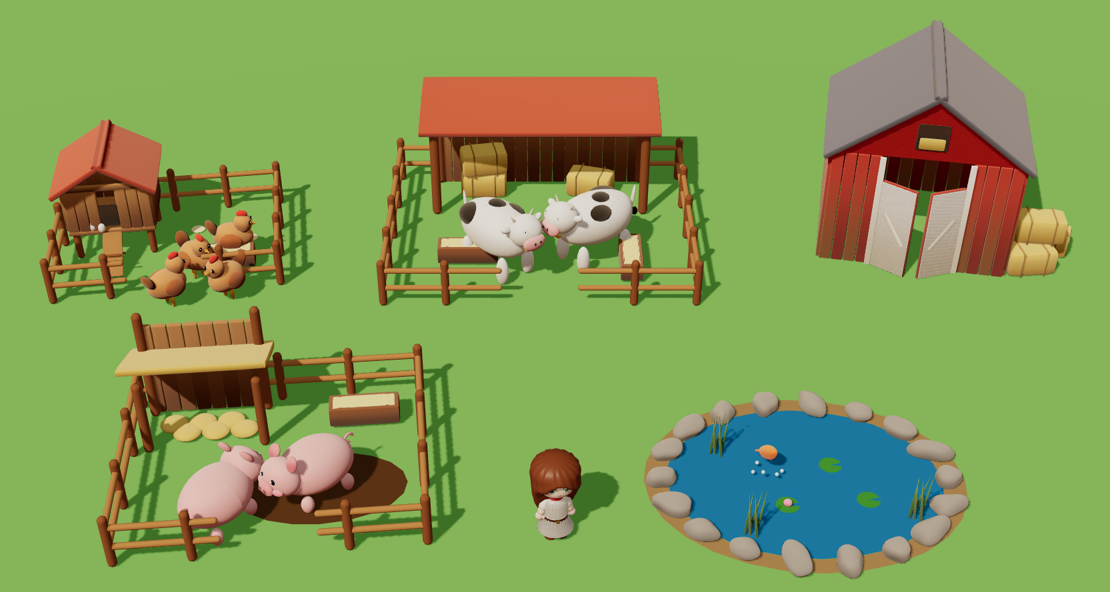
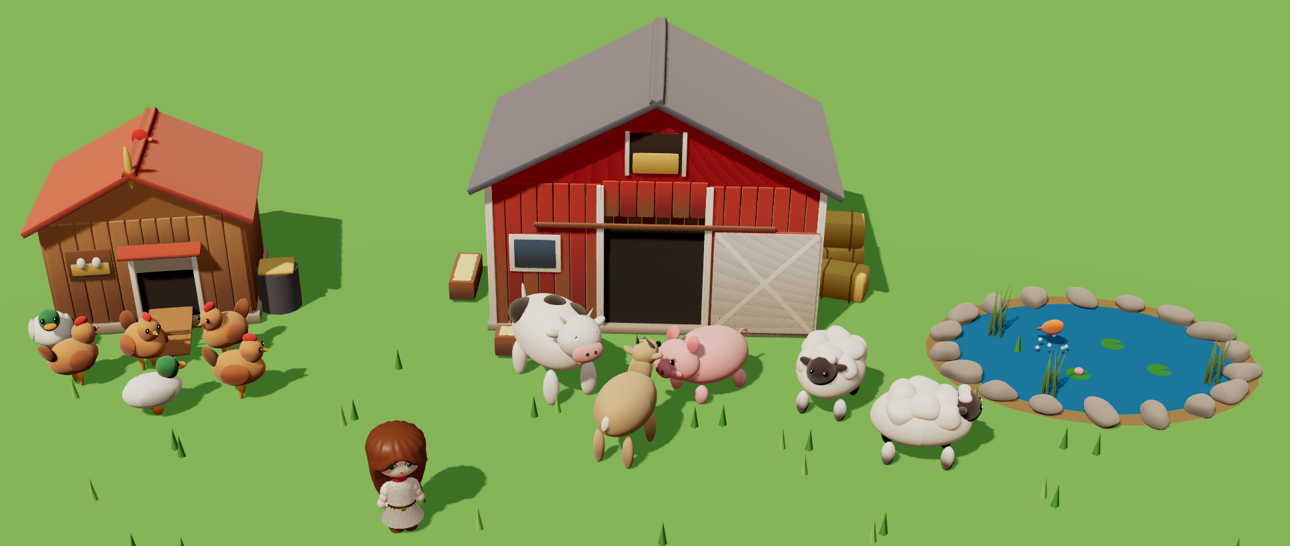
art(newgame): farm preview v2 — closed poultry house + livestock barn, sheep, goat
Claude-Session: https://claude.ai/code/session_01GPWeNez232vT9ersFNk7wt

diff --git a/newgame/src/clay.js b/newgame/src/clay.js
@@ -510,3 +510,34 @@ export const FARMB = {
     for (const [x, z] of [[.4, -.3], [-.3, .5], [.8, .4]]) { const p = new THREE.Mesh(new THREE.CircleGeometry(.16, 12, .3, 5.8), new THREE.MeshStandardMaterial({ color: '#4a9a3a' })); p.rotation.x = -Math.PI / 2; p.position.set(x, .03, z); g.add(p) } part(g, '#e85a8a', '#ffb0d0', [-.3, .07, .5], [.06, .05, .06], [0, 0, 0], { A: 0 });
     const f = new THREE.Group(); part(f, '#d86a2a', '#ffa050', [0, 0, 0], [.08, .1, .2]); cone(f, '#d86a2a', '#ffa050', [0, 0, -.2], [.07, .1, .02], [Math.PI / 2, 0, 0], .1); f.position.set(-.5, .35, -.2); f.rotation.set(-.6, .4, 0); g.add(f);
     for (let i = 0; i < 6; i++) { const d = new THREE.Mesh(new THREE.SphereGeometry(.03, 6, 5), new THREE.MeshStandardMaterial({ color: '#cfeeff' })); d.position.set(-.5 + Math.cos(i) * .2, .1 + (i % 3) * .05, -.1 + Math.sin(i) * .15); g.add(d) } } };
+/* v4.75b designer: two closed houses (🐔 birds · 🐄 four-legged) with a doorway the animals walk out of · 🐑 sheep · 🐐 goat */
+ANIMALS.sheep = g => { quad(g, { body: ['#e8e2d4', '#ffffff'], w: .38, h: .3, d: .5, lw: .07, lh: .14, leg: '#3a3030' });
+  for (let i = 0; i < 9; i++) part(g, '#e8e2d4', '#ffffff', [(i % 3 - 1) * .17, .62 + (i % 2) * .08, (Math.floor(i / 3) - 1) * .2], [.17, .15, .17], [0, i, 0], { A: .15 });
+  part(g, '#3a3030', '#5a4a48', [0, .66, .42], [.16, .17, .17]); for (let i = 0; i < 3; i++) part(g, '#e8e2d4', '#ffffff', [(i - 1) * .07, .8, .4], [.07, .06, .07], [0, 0, 0], { A: .1 });
+  for (const s of [-1, 1]) part(g, '#3a3030', '#5a4a48', [s * .17, .7, .38], [.09, .04, .05], [0, 0, s * .3], { A: 0 }); eyes(g, .7, .56, .07, .028) };
+ANIMALS.goat = g => { quad(g, { body: ['#a8885a', '#e0c090'], w: .3, h: .27, d: .48, lw: .06, lh: .2 }); part(g, '#a8885a', '#e0c090', [0, .78, .36], [.12, .2, .12], [.4, 0, 0]);
+  part(g, '#a8885a', '#e0c090', [0, .94, .5], [.13, .13, .18]); part(g, '#f0e6d4', '#ffffff', [0, .74, .6], [.05, .1, .04], [0, 0, 0], { A: 0 });
+  for (const s of [-1, 1]) { cone(g, '#6a5a4a', '#a8988a', [s * .07, 1.1, .44], [.03, .14, .03], [-.6, 0, s * .2], .9); part(g, '#a8885a', '#e0c090', [s * .15, .96, .44], [.08, .03, .05], [0, 0, s * .4], { A: 0 }) }
+  part(g, '#f0e6d4', '#ffffff', [0, .62, -.48], [.04, .08, .04], [.6, 0, 0], { A: 0 }); eyes(g, .98, .66, .08, .028) };
+FARMB.poultry = g => {   /* 🐔 a closed hen house: plank walls · red roof · a little hatch + ramp · a nest window · a feed bin */
+  const W = 2.6, Dd = 2, H = 1.5; rbox(g, '#8a7a6a', '#b8a898', [0, .08, 0], [W + .2, .16, Dd + .2], [0, 0, 0], .04);
+  for (const [x, z, w, ry] of [[0, -Dd / 2, W, 0], [-W / 2, 0, Dd, Math.PI / 2], [W / 2, 0, Dd, Math.PI / 2]]) plankWall(g, x, .16 + H / 2, z, w, H, ry);
+  plankWall(g, -.75, .16 + H / 2, Dd / 2, 1.1, H); plankWall(g, .95, .16 + H / 2, Dd / 2, .7, H); plankWall(g, .2, .16 + H * .82, Dd / 2, .8, H * .36);
+  rbox(g, '#1a120c', '#2a1e14', [.2, .5, Dd / 2 - .04], [.78, .7, .04], [0, 0, 0], .02); for (const s of [-1, 1]) rbox(g, ...WHITE, [.2 + s * .42, .62, Dd / 2 + .04], [.07, .95, .07], [0, 0, 0], .01);
+  rbox(g, ...WOODL, [.2, .17, Dd / 2 + .45], [.6, .04, .9], [.32, 0, 0], .02); for (let i = 0; i < 4; i++) rbox(g, ...WOOD, [.2, .08 + i * .07, Dd / 2 + .15 + i * .2], [.6, .02, .03], [.32, 0, 0], .005);
+  gable(g, W + .2, Dd + .2, .16 + H, .7); const tri = new THREE.Shape([new THREE.Vector2(-W / 2, 0), new THREE.Vector2(W / 2, 0), new THREE.Vector2(0, .7)]); for (const z of [-Dd / 2, Dd / 2]) { const m = new THREE.Mesh(new THREE.ShapeGeometry(tri), new THREE.MeshStandardMaterial({ color: '#c08a52', side: THREE.DoubleSide, roughness: .9 })); m.position.set(0, .16 + H, z); g.add(m) }
+  rbox(g, ...WOOD, [-.75, 1.05, Dd / 2 + .04], [.6, .45, .05], [0, 0, 0], .02); rbox(g, ...STRAW, [-.75, 1.0, Dd / 2 + .06], [.5, .18, .03], [0, 0, 0], .02); part(g, '#f0e8d8', '#ffffff', [-.85, 1.1, Dd / 2 + .08], [.06, .08, .05], [0, 0, 0], { A: 0 }); part(g, '#f0e8d8', '#ffffff', [-.65, 1.1, Dd / 2 + .08], [.06, .08, .05], [0, 0, 0], { A: 0 });
+  rbox(g, ...ROOF_R, [.2, 1.25, Dd / 2 + .15], [1.1, .06, .3], [.25, 0, 0], .02); part(g, '#e0b030', '#ffe070', [0, 2.45, Dd / 2 + .15], [.05, .3, .05], [0, 0, 0], { A: 0 });
+  const vane = new THREE.Group(); part(vane, '#c02020', '#ff4a3a', [0, 0, 0], [.12, .14, .04], [0, 0, 0], { A: 0 }); part(vane, '#e0b030', '#ffe070', [.12, -.02, 0], [.04, .03, .02], [0, 0, 0], { A: 0 }); vane.position.set(0, 2.42, 0); g.add(vane);
+  const bin = new THREE.Mesh(new THREE.CylinderGeometry(.3, .3, .6, 14), new THREE.MeshStandardMaterial({ color: '#8a8a92', roughness: .4, metalness: .5 })); bin.position.set(1.65, .3, .55); g.add(bin); rbox(g, ...STRAW, [1.65, .62, .55], [.5, .06, .5], [0, 0, 0], .1) };
+FARMB.livestock = g => {   /* 🐄 a closed barn for four-legged animals: long red walls · a wide sliding door left open · hay loft · water + feed troughs outside */
+  const W = 4.4, Dd = 3, H = 2.1, RED = ['#8a2a1a', '#c8402a']; rbox(g, '#8a7a6a', '#b8a898', [0, .06, 0], [W + .2, .12, Dd + .2], [0, 0, 0], .04);
+  for (const [x, z, w, ry] of [[0, -Dd / 2, W, 0], [-W / 2, 0, Dd, Math.PI / 2], [W / 2, 0, Dd, Math.PI / 2]]) plankWall(g, x, H / 2 + .1, z, w, H, ry, RED);
+  plankWall(g, -1.45, H / 2 + .1, Dd / 2, 1.5, H, 0, RED); plankWall(g, 1.45, H / 2 + .1, Dd / 2, 1.5, H, 0, RED); plankWall(g, 0, H - .1, Dd / 2, 1.4, .5, 0, RED);
+  rbox(g, '#1a120c', '#2a1e14', [0, .85, Dd / 2 - .05], [1.38, 1.5, .04], [0, 0, 0], .02); rbox(g, ...WOOD, [0, 1.65, Dd / 2 + .12], [3.2, .06, .06], [0, 0, 0], .01);
+  const dr = new THREE.Group(); dr.position.set(1.5, 0, Dd / 2 + .1); g.add(dr); rbox(dr, ...RED, [0, .85, 0], [1.4, 1.5, .07], [0, 0, 0], .02); for (const a of [.75, -.75]) rbox(dr, ...WHITE, [0, .85, .04], [.07, 1.95, .02], [0, 0, a], .005); rbox(dr, ...WHITE, [0, .85, .04], [1.4, 1.5, .015], [0, 0, 0], .005).scale.set(1, 1, .2);
+  for (const x of [-W / 2, -.72, .72, W / 2]) rbox(g, ...WHITE, [x, H / 2 + .1, Dd / 2 + .06], [.1, H, .06], [0, 0, 0], .01);
+  gable(g, W + .3, Dd + .3, H + .1, 1.2, ['#4a4a52', '#7a7a88']); const tri = new THREE.Shape([new THREE.Vector2(-W / 2, 0), new THREE.Vector2(W / 2, 0), new THREE.Vector2(0, 1.2)]); for (const z of [-Dd / 2, Dd / 2]) { const m = new THREE.Mesh(new THREE.ShapeGeometry(tri), new THREE.MeshStandardMaterial({ color: '#c8402a', side: THREE.DoubleSide, roughness: .9 })); m.position.set(0, H + .1, z); g.add(m) }
+  rbox(g, '#2a1a10', '#4a3020', [0, H + .55, Dd / 2 + .02], [.7, .55, .04], [0, 0, 0], .02); rbox(g, ...STRAW, [0, H + .42, Dd / 2 + .05], [.6, .28, .05], [0, 0, 0], .02); for (const s of [-1, 1]) rbox(g, ...WHITE, [s * .37, H + .55, Dd / 2 + .05], [.06, .6, .04], [0, 0, 0], .005);
+  for (const s of [-1, 1]) { rbox(g, ...WHITE, [s * 1.6, 1.2, Dd / 2 + .06], [.7, .55, .04], [0, 0, 0], .01); rbox(g, '#2a3a4a', '#4a6a8a', [s * 1.6, 1.2, Dd / 2 + .08], [.56, .42, .02], [0, 0, 0], .01) }
+  trough(g, -1.6, Dd / 2 + .7, 0, '#5aa0d0'); trough(g, -W / 2 - .55, .3, Math.PI / 2, '#9ac050'); hay(g, W / 2 + .5, 0, -.6, .2); hay(g, W / 2 + .5, .44, -.6, -.1); hay(g, W / 2 + .5, 0, .2, -.3) };

diff --git a/newgame/tools/art/farm.html b/newgame/tools/art/farm.html
@@ -7,11 +7,9 @@ r.outputColorSpace = THREE.SRGBColorSpace; r.toneMapping = THREE.ACESFilmicToneM
 const S = new THREE.Scene(); S.background = new THREE.Color('#bfe3f2'); S.add(new THREE.HemisphereLight('#fff6ec', '#c9a27e', .95)); const sun = new THREE.DirectionalLight('#fff1dc', 2.1); sun.position.set(-6, 12, 9); sun.castShadow = true; Object.assign(sun.shadow.camera, { left: -16, right: 16, top: 12, bottom: -12 }); sun.shadow.mapSize.set(2048, 2048); S.add(sun);
 const fl = new THREE.Mesh(new THREE.PlaneGeometry(80, 40), new THREE.MeshStandardMaterial({ color: '#7cc060' })); fl.rotation.x = -Math.PI / 2; fl.receiveShadow = true; S.add(fl);
 const at = (fn, x, z, ry = 0, s = 1) => { const g = new THREE.Group(); fn(g); g.position.set(x, 0, z); g.rotation.y = ry; g.scale.setScalar(s); g.traverse(o => { if (o.isMesh) { o.castShadow = true; o.receiveShadow = true } }); S.add(g); return g };
-const C = (x, z) => [x, z];
-at(FARMB.coop, -6.2, -3.2, .15); for (const [x, z, ry] of [[-5.6, -2.4, .8], [-5.0, -1.8, -.6], [-5.9, -1.6, 2.4], [-5.1, -3.0, 1.6]]) at(ANIMALS.chicken, x, z, ry, 1.15);
-at(FARMB.cowpen, 0, -3.6, 0); at(ANIMALS.cow, -.7, -2.7, .7, 1.05); at(ANIMALS.cow, .9, -3.0, -.9, 1.05);
-at(FARMB.barn, 6.4, -4, -.2);
-at(FARMB.pigpen, -3.6, 2.4, .1); at(ANIMALS.pig, -3.0, 2.8, -.8, 1.1); at(ANIMALS.pig, -4.2, 3.4, 2.6, 1.1);
-at(FARMB.pond, 3.6, 2.6, 0); at(HUMANS.kealee, .2, 3.6, .2, .82);
-const cam = new THREE.PerspectiveCamera(30, W / H, .1, 120); cam.position.set(0, 13, 17); cam.lookAt(0, 0, -.4); r.render(S, cam); window.__done = 1;
+at(FARMB.poultry, -6.3, -3.4, .15); for (const [x, z, ry] of [[-6.0, -1.3, .8], [-5.0, -1.6, -.6], [-6.8, -.9, 2.4], [-4.6, -.6, 1.6]]) at(ANIMALS.chicken, x, z, ry, 1.15); at(ANIMALS.duck, -5.6, -.2, 2.2, 1.15); at(ANIMALS.duck, -7.4, -1.8, .4, 1.15);
+at(FARMB.livestock, .8, -3.8, -.05); at(ANIMALS.cow, -.6, -.9, .5, 1.05); at(ANIMALS.pig, 1.4, -.8, -.9, 1.1); at(ANIMALS.sheep, 2.9, -.4, -.4, 1.15); at(ANIMALS.goat, .3, .7, 2.7, 1.15); at(ANIMALS.sheep, 3.8, .8, 1.4, 1.15);
+at(FARMB.pond, 6.6, -1.6, 0); at(HUMANS.kealee, -2.2, 2.2, .3, .82);
+for (let i = 0; i < 60; i++) { const a = i * 2.4, rr = 2 + (i * 37 % 90) / 10; const m = new THREE.Mesh(new THREE.ConeGeometry(.05, .3, 4), new THREE.MeshStandardMaterial({ color: i % 3 ? '#5aa040' : '#8ad060' })); m.position.set(Math.cos(a) * rr * 1.2, .15, 1.2 + Math.sin(a) * rr * .4); S.add(m) }
+const cam = new THREE.PerspectiveCamera(30, W / H, .1, 120); cam.position.set(0, 9.5, 15); cam.lookAt(0, 0, -1); r.render(S, cam); window.__done = 1;
 </script></body></html>
